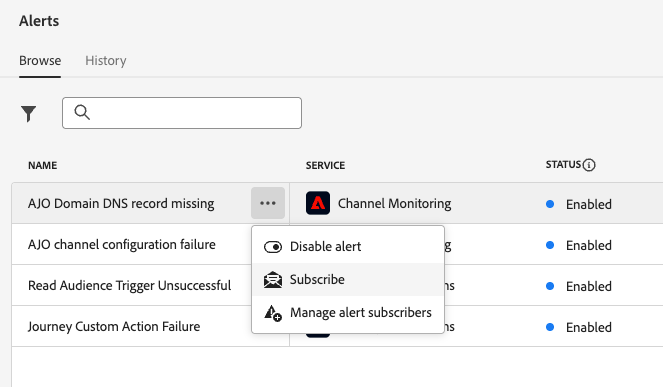
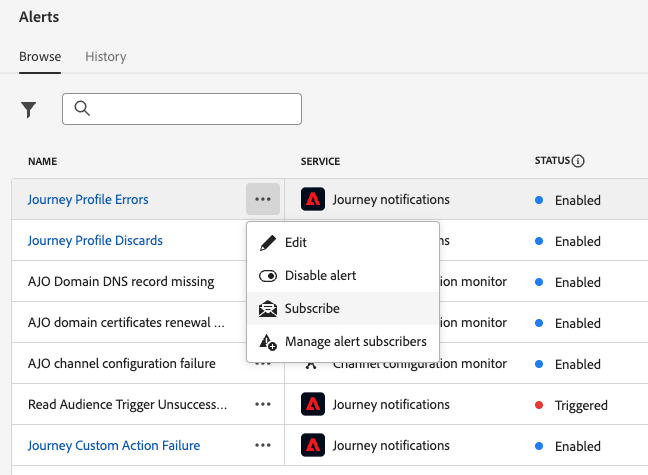
Updates for Alerts  - 25.9

diff --git a/help/using/reports/alerts.md b/help/using/reports/alerts.md
@@ -43,18 +43,27 @@ They are listed as follows and each alert is detailed below.
 * Alerts specific to channel configuration:
 
    * the [AJO Domain DNS record missing](#alert-dns-record-missing) alert
-  <!--* the [AJO channel configuration failure](#alert-channel-config-failure) alert
-   * the [AJO domain certificates renewal unsuccessful](#alert-certificates-renewal) alert-->
+   * the [AJO channel configuration failure](#alert-channel-config-failure) alert
+   <!--* the [AJO domain certificates renewal unsuccessful](#alert-certificates-renewal) alert-->
 
 ## Subscribe to alerts {#subscribe-alerts}
 
 If an unexpected behavior occurs, and/or a certain set of conditions in your operations is reached (such as a potential problem when the system breaches a threshold), alert notifications are delivered to any users in your organization who subscribed to them.
 
-You can subscribe to each alert individually from the user interface. To subscribe/unsubscribe to an alert, follow these steps:
+You can subscribe to each alert individually from the user interface, either globally from the **[!UICONTROL Alerts]** men (see [Global subscription](#global-subscription)), or unitary for a specific journey (see [Unitary subscription](#unitary-subscription)).
 
-1. Browse to the **[!UICONTROL Alerts]**, select the **[!UICONTROL Subscribe]** option.
+Based on the subscriber's preferences, alerts are sent by email, and/or directly within Journey Optimizer notification center, in the top right corner of the user interface (in-app notifications). Select how you want to receive these alerts in the [!DNL Adobe Experience Cloud] **[!UICONTROL Preferences]**. [Learn more](../start/user-interface.md#in-product-alerts)
 
-   ![](assets/alert-subscribe.png){width=80%}
+When an alert is resolved, subscribers receive a "Resolved" notification.
+
+
+### Global subscription {#global-subscription}
+
+To subscribe/unsubscribe to an alert for all journeys and campaigns, follow these steps:
+
+1. Browse to the **[!UICONTROL Alerts]** dashboard from the left menu, select the **[!UICONTROL Subscribe]** option for the alert you want to subscribe to.
+
+   ![Subscribing to an alert](assets/alert-subscribe.png){width=80%}
 
    >[!NOTE]
    >
@@ -62,36 +71,28 @@ You can subscribe to each alert individually from the user interface. To subscri
 
 1. Use the same method to **[!UICONTROL Unsubscribe]**.
 
-You can also subscribe:
+You can also subscribe trough [I/O Event notifications](https://experienceleague.adobe.com/docs/experience-platform/observability/alerts/subscribe.html){target="_blank"}. Alert rules are organized into different subscription packages. Event subscriptions corresponding to the specific Journey Optimizer alerts are detailed [below](#journey-alerts).
 
-1. Through [I/O Event notifications](https://experienceleague.adobe.com/docs/experience-platform/observability/alerts/subscribe.html){target="_blank"}. Alert rules are organized into different subscription packages. Event subscriptions corresponding to the specific Journey Optimizer alerts are detailed [below](#journey-alerts).
 
-1. From [the journey inventory](#journey-alerts), for journey alerts only. 
+### Unitary subscription {#unitary-subscription}
 
-Based on the subscriber's preferences, alerts are sent by email, and/or directly within Journey Optimizer notification center, in the top right corner of the user interface (in-app notifications). Select how you want to receive these alerts in the [!DNL Adobe Experience Cloud] **[!UICONTROL Preferences]**. [Learn more](../start/user-interface.md#in-product-alerts)
+To subscribe/unsubscribe to an alert for a specific journey, follow these steps:
 
-When an alert is resolved, subscribers receive a "Resolved" notification.
+1. Browse to the journey inventory and select the **[!UICONTROL Subscribe to alerts]** option for a specific journey.
+
+      ![Subscribing to an alert for a specific journey](assets/subscribe-journey-alert.png){width=80%}
+
+1. Choose the alert(s). The following alerts are available: [Profile Discard Rate Exceeded](#alert-discard-rate), [Custom Action Error Rate Exceeded](#alert-custom-action-error-rate), and [Profile Error Rate Exceeded](#alert-profile-error-rate).
+   
+1. To unsubscribe to an alert, unselect it from the same screen.
+
+1. Click **[!UICONTROL Save]** to confirm.
+
 
 <!--To enable email alerting, refer to [Adobe Experience Platform documentation](https://experienceleague.adobe.com/docs/experience-platform/observability/alerts/ui.html#enable-email-alerts){target="_blank"}.-->
 
 
-## Manage alerts {#manage-alerts}
 
-To manage alerts, select an item and use the **[!UICONTROL More actions]** button.
-
-![](assets/alert-more-actions.png){width=80%}
-
-By default, all alerts are enabled. To disable an alert, select the the **[!UICONTROL Disable alert]** option from the **[!UICONTROL More actions]** menu. All subscribers to this alert will no longer receive the related notifications.
-
-Select **[!UICONTROL Manage alert subscribers]** to view the list of users who subscribed to the alert. Use the blank field to add more subscribers.
-
-![](assets/alert-subscribers.png){width=80%}
-
-The possible alert statuses are listed below:
-
-* **[!UICONTROL Enabled]** - The alert is enabled and is currently monitoring trigger condition.
-* **[!UICONTROL Disabled]** - The alert is disabled and is currently not monitoring trigger condition. You will receive no notifications for this alert.
-* **[!UICONTROL Triggered]** - The alert's trigger condition is currently being met.
 
 ## Journey alerts {#journey-alerts}
 
@@ -99,7 +100,6 @@ The possible alert statuses are listed below:
 >
 >Adobe Journey Optimizer specific alerts apply only to **live** journeys. Alerts are not triggered for journeys in test mode.
 
-You can subscribe journey alerts within the journey inventory. , there is an new option in the "..." menu to subscribe to alerts. This opens a modal that lists all of the journey alerts. The customer can click the ones they care about, save, and then they are only subscribed for that particular journey.
 
 ### Journey Custom Action Failure {#alert-custom-actions}
 
@@ -158,16 +158,6 @@ This alert warns you if the ratio of custom action errors to successful HTTP cal
 ### Profile Error Rate Exceeded {#alert-profile-error-rate}
 
 This alert warns you if the ratio of custom action errors to successful HTTP calls over the last 5 minutes exceeded threshold. The defaut threshold is set to 20% but you can [define a custom theshold](#custom-threshold).
-
-### Define a custom threshold {#custom-threshold}
-
-You can set thresholds for these alerts. The threshold alerts above default to 20%. 
-
-To change the threshold, browse to the **Alerts** screen. The new threshold applies to **all** journeys.
-
->[!NOTE]
->
->The threshold levels are global across all journeys and cannot be individually modified per journey.
 
 ## Configuration alerts {#configuration-alerts}
 
@@ -244,7 +234,52 @@ When resolving email configuration issues, keep in mind the best practices liste
 
 This alert warns you if a domain certificate (CDN, tracking URL) renewal failed for a specific Journey Optimizer subdomain.-->
 
+## Manage alerts {#manage-alerts}
+
+### Edit an alert
+
+For domain and channel configuration alers, you can check the details of an alert by clicking on its name. The name, status and notification channels are displayed in the left panel.
+
+For Journey alerts, use the **[!UICONTROL More actions]** button to edit them. You can then define a [custom theshold](#custom-threshold) for these alerts.
+
+![](assets/alert-more-actions.png){width=60%}
+
+#### Define a custom threshold {#custom-threshold}
+
+You can set thresholds for the [Journey alerts](#journey-alerts). The threshold alerts above default to 20%. 
+
+To change the threshold:
+
+1. Browse to the **Alerts** screen
+1. Click the **[!UICONTROL More actions]** button of the alert to update
+1. Enter the new threshold and confirm. The new threshold applies to **all** journeys
 
 
+![](assets/alert-threshold.png){width=60%}
+
+>[!CAUTION]
+>
+>The threshold levels are global across all journeys and cannot be individually modified per journey.
+
+
+### Disable an alert
+
+By default, all alerts are enabled. To disable an alert, select the the **[!UICONTROL Disable alert]** option: all subscribers to this alert will no longer receive the related notifications.
+
+
+### Alert statuses
+
+The possible alert statuses are listed below:
+
+* **[!UICONTROL Enabled]** - The alert is enabled and is currently monitoring trigger condition.
+* **[!UICONTROL Disabled]** - The alert is disabled and is currently not monitoring trigger condition. You will receive no notifications for this alert.
+* **[!UICONTROL Triggered]** - The alert's trigger condition is currently being met.
+
+
+### View and update subscribers
+
+Select **[!UICONTROL Manage alert subscribers]** to view the list of users who subscribed to the alert. Use the blank field to add more subscribers.
+
+![](assets/alert-subscribers.png){width=80%}
 
 
